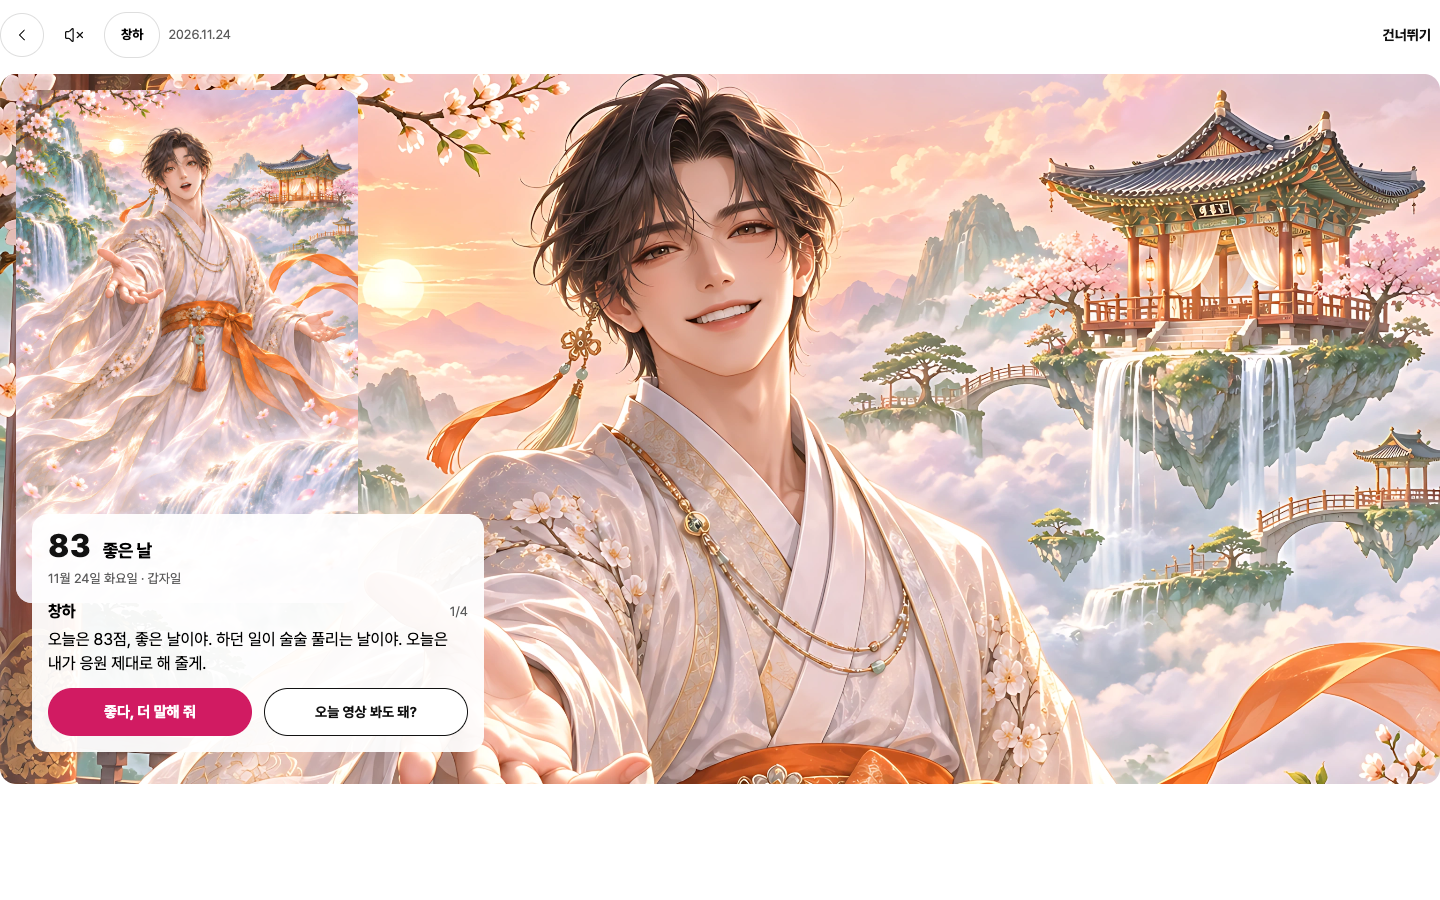
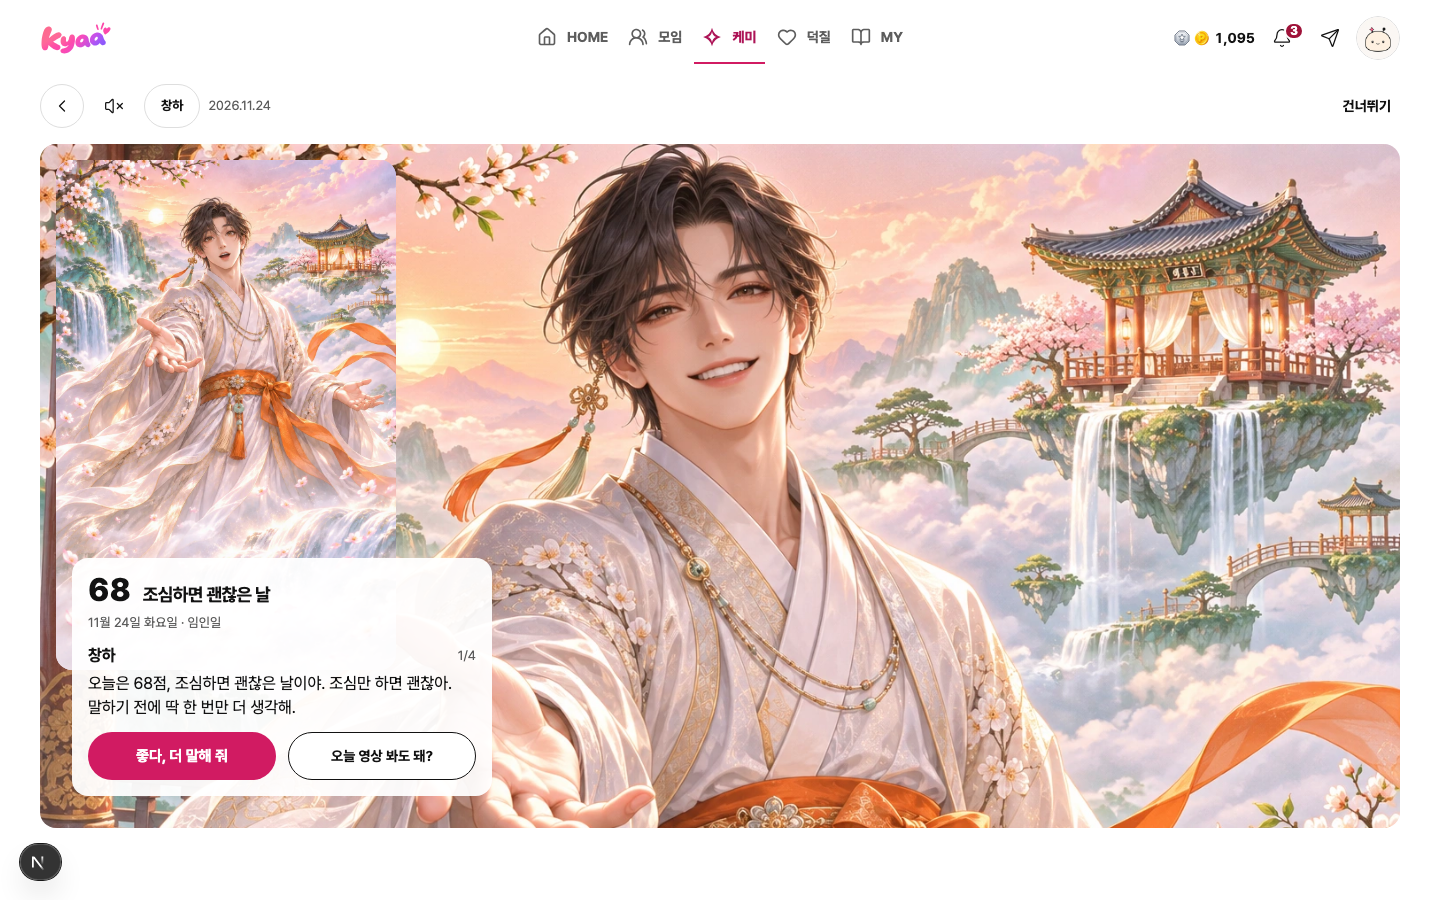
창하 결과 배경의 PC 원본 선택과 로컬 로그인 화면 증거 추가

diff --git a/apps/web/app/chemi/fortune/result.tsx b/apps/web/app/chemi/fortune/result.tsx
@@ -432,6 +432,9 @@ export function FortuneResult({
             </>
           )}
           <picture className={styles.hero}>
+            {character === "changha" && (
+              <source media="(min-width: 48rem)" srcSet="/chemi/fortune/fortune-v1.webp 1x, /chemi/fortune/fortune-v1@2x.webp 2x" />
+            )}
             <img
               src={
                 character === "changha"
